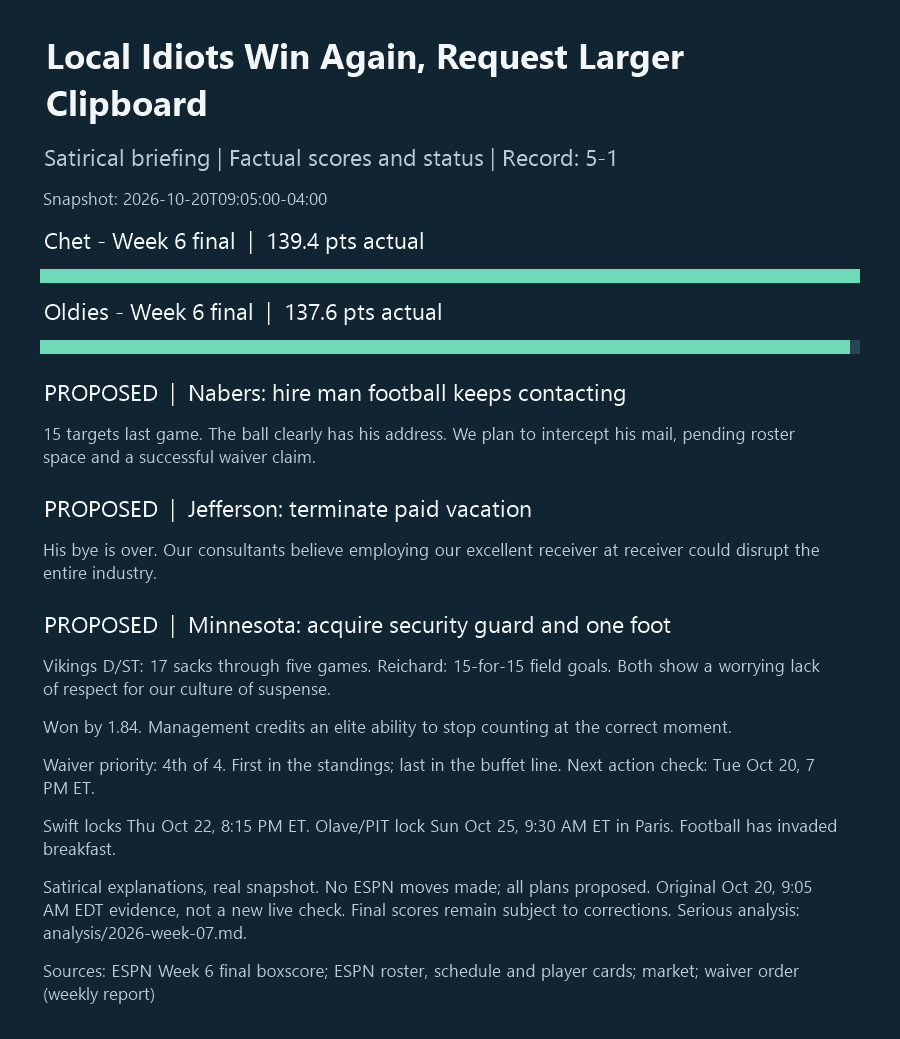
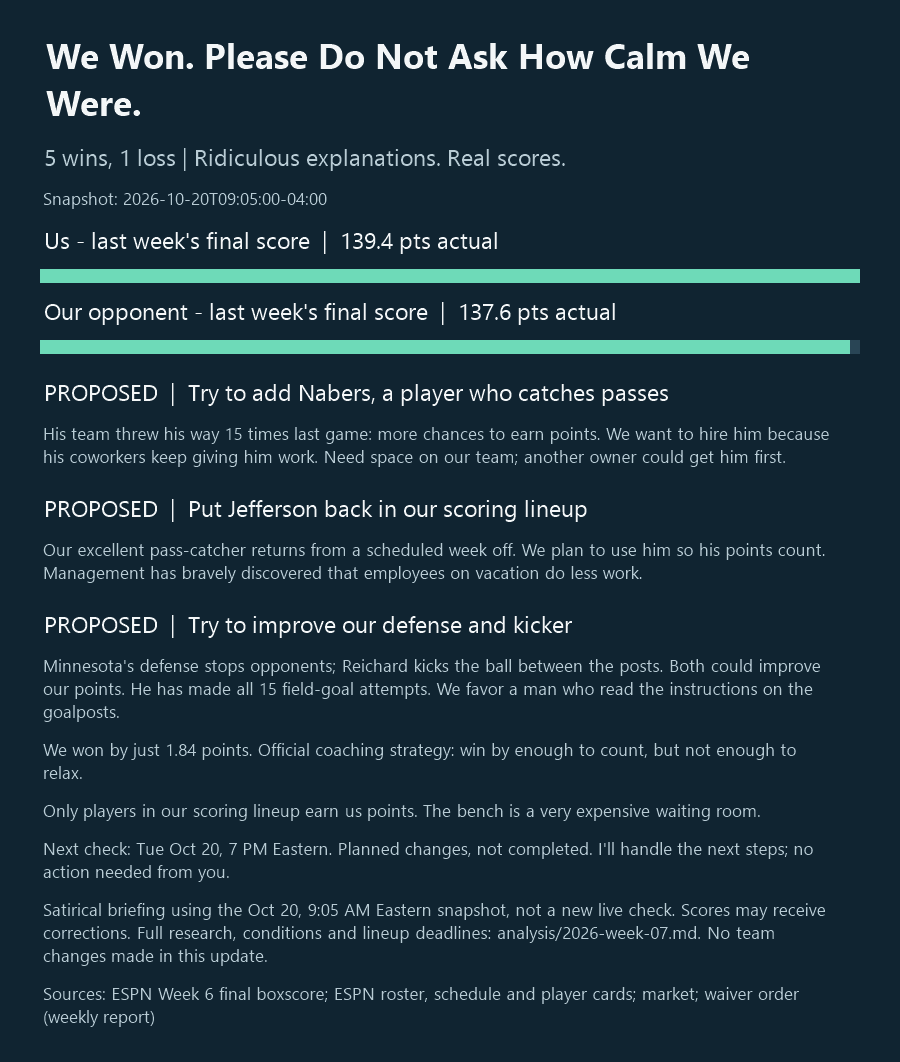
fantasy: make satirical briefings understandable to football beginners

Changed region(s): [[0.0311, 0.0308, 0.9644, 0.9856]]

diff --git a/docs/infographics.md b/docs/infographics.md
@@ -15,6 +15,18 @@ Effective October 20, 2026, use deadpan, absurd satirical sports reporting for o
 
 All scheduled coaching runs read this file; apply this style without changing app automation definitions. Readability, sourcing, lock protection and Git archiving below still apply.
 
+## Beginner accessibility: no football knowledge assumed
+
+The owner knows nothing about football. Owner-facing slides and chat summaries must make sense without a glossary or player-name recognition. Keep the absurd humor, but make the factual setup understandable first.
+
+- Lead with the consequence: "We won by 1.84 points" and "5 wins, 1 loss," not merely a score or "5-1." Briefly establish that real-game performance earns our fantasy team points when needed.
+- For each item communicate **who / action / benefit**, then the joke. Identify a receiver as someone who catches passes, a kicker as someone who kicks the ball between the posts, and a defense as a group that stops the other team. Do not bury the reader in position lessons.
+- Translate "targets" to "passes thrown his way" (not catches), "bye" to "scheduled week off," "waiver priority" to "our place in line to request available players," "start" to "put him in the scoring lineup," and "lock" to "deadline to change that player's lineup spot." Avoid unexplained WR, FLEX, IR, D/ST, PPR and team abbreviations in the overview. Operational records can retain precise terminology.
+- Explain that only the scoring lineup earns points; players on our bench do not contribute to our weekly score. Distinguish adding someone to the team from putting him in that lineup. Explain planned versus completed in normal words even when renderer status labels already say PROPOSED or EXECUTED.
+- Prefer one short factual setup plus one absurd punchline per item. Jokes should rely on everyday experiences (office work, shopping, vacations, breakfast), not football trivia. Do not replace jargon with equally mysterious metaphors.
+- Keep the overview compact: result, up to three understandable changes, next check and whether the owner needs to do anything. Put statistical detail and secondary deadlines in the linked serious report rather than shrinking text or turning the slide into a rulebook. Retain any genuinely urgent deadline/action explicitly.
+- Before rendering, ask: could someone who has never watched a game explain what we plan to do and why after reading this? Then inspect the rendered image for readability as usual.
+
 ## Rendering workflow
 
 1. Curate minimal sourced values from the verified decision/report, not a raw authenticated export. Write `analysis/infographics/YYYY-week-NN-<run-or-action>.json` with apply_patch. Each metric has a label, numeric value (or null for unknown), kind (`projection` or `actual`), and its own observation timestamp with offset. Include source URLs/timestamps, move status, concise reason, next check and limitations. Mark historical snapshots explicitly; do not call them live.

diff --git a/docs/decision-log.md b/docs/decision-log.md
@@ -1,5 +1,9 @@
 # Fantasy Football Decision Log
 
+### 2026-10-20 — Beginner-friendly satire clarification (repository only)
+
+Owner requested funny overviews that assume no football knowledge. Added durable shared guidance for plain-language player roles, planned action and benefit, everyday jokes, translated terminology and concise result/next-step summaries. Revised the satirical Week 7 overview using the same October 20 9:05 AM EDT snapshot; no new ESPN inspection, strategic change or transaction. Original factual overview and rigorous report remain intact. Rendered/inspected the revised image, checked the diff and selectively committed/pushed; final response records the commit.
+
 ### 2026-10-20 — Owner-requested satirical overview style (repository only)
 
 Updated shared agent, coaching and infographic guidance: owner-facing overview graphics use absurd deadpan explanations grounded in sourced facts; underlying research, decisions and executable handoffs remain rigorous and literal. All six scheduled coaching runs inherit the guidance by reading these shared files; no automation definitions changed. Scores, status, deadlines, security alerts and serious health information remain unambiguous. Created and visually inspected a satirical edition of the weekly overview using the existing October 20 9:05 AM EDT snapshot and explicit joke-to-fact anchors, preserving the original. No fresh ESPN inspection or ESPN mutation; no strategic changes. Selective commit/push and hash reported in final response.

diff --git a/AGENTS.md b/AGENTS.md
@@ -15,3 +15,5 @@ October 11 owner delegation: hands-off team management. In action-capable runs a
 Read docs/infographics.md. Use scripts/render-infographic.ps1 for a simple sourced visual after each verified move and meaningful matchup/weekly update. Archive curated input and PNG in analysis/infographics/, link from reports, embed in final responses. Visual failure must not delay locks, verification or logging/commit/push.
 
 October 20 owner presentation preference: overview slides/infographics should be aggressively silly, deadpan sports satire: absurd explanations with a small factual anchor, making the front office look incompetent while the underlying coaching remains rigorous. Follow docs/infographics.md. Keep actual numbers, projections, transaction status, deadlines and serious alerts literal; never use jokes as operational instructions or weaken analysis.
+
+Owner knows nothing about football: make owner-facing updates understandable without football knowledge. Explain who each player is, what we are doing and why it helps in plain language before/within the joke. Spell out unfamiliar terms; no unexplained football abbreviations. Humor must work without knowing the sport. See the beginner-accessibility rules in docs/infographics.md.
